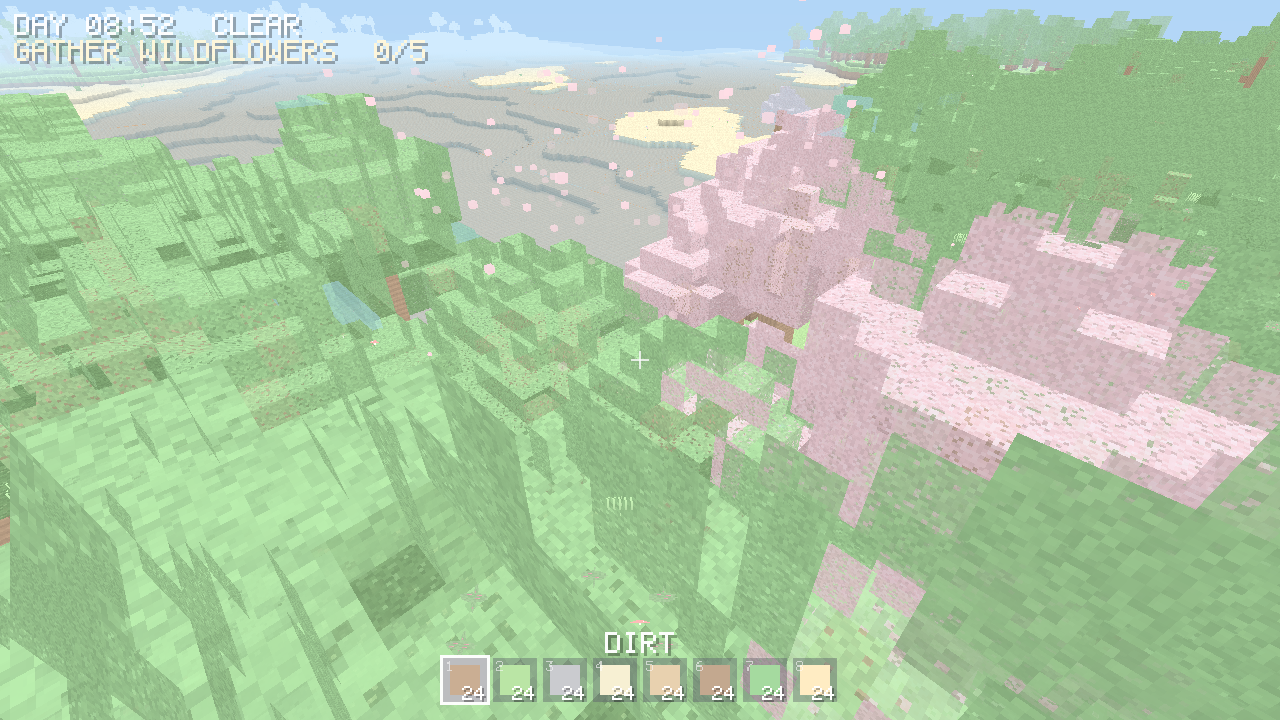
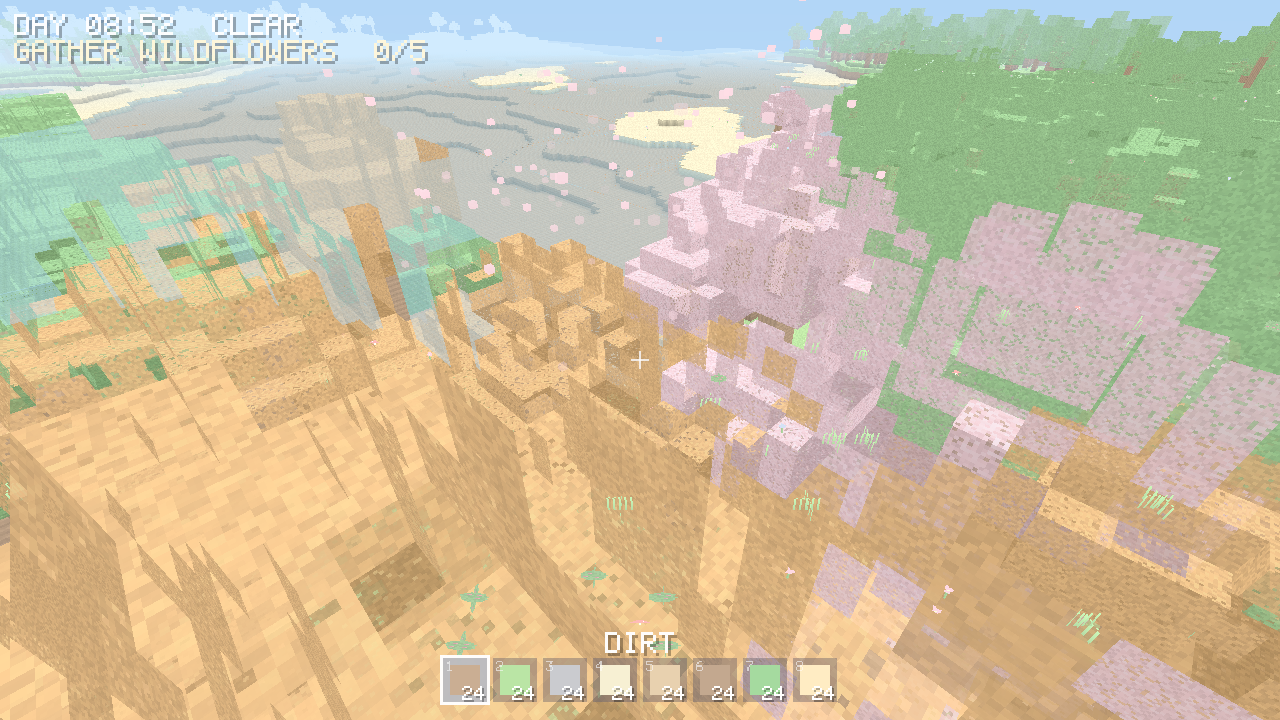
Stage 31: autumn groves
- New autumn_leaves block (warm amber). A large-scale noise paints patches of
  the woods in autumn colours, so forests blend green and amber canopies for
  seasonal variety. Texture reuses the dappled leaf pattern.
- Screenshot tool frames an autumn grove.

diff --git a/crates/game/src/bin/screenshot.rs b/crates/game/src/bin/screenshot.rs
@@ -206,6 +206,20 @@ fn main() {
         println!("  (no cherry grove near spawn this run)");
     }
 
+    // If an autumn grove is near, frame its warm amber canopy.
+    if let Some(amber) = nearest_block(&game, ground, pixelcraft_core::block::blocks::AUTUMN_LEAVES) {
+        let center = Vec3::new(amber.x as f32, amber.y as f32 - 3.0, amber.z as f32);
+        let eye = center + Vec3::new(14.0, 13.0, 14.0);
+        let forward = (center - eye).normalize();
+        let env = Environment { time_of_day: 0.42, day_length: 600.0 };
+        let camera = Camera::new(eye, forward, aspect);
+        let path = format!("{out_dir}/18_autumn.png");
+        renderer.capture(&camera, &env, &path);
+        println!("  wrote {path} (autumn at {amber:?})");
+    } else {
+        println!("  (no autumn grove near spawn this run)");
+    }
+
     // A critter close-up: frame the nearest ground critter to the cat.
     if let Some(critter) = game
         .entities

diff --git a/crates/core/src/block.rs b/crates/core/src/block.rs
@@ -142,6 +142,7 @@ pub mod blocks {
     pub const COAL_ORE: BlockId = BlockId(22);
     pub const CHERRY_LEAVES: BlockId = BlockId(23);
     pub const PINE_LEAVES: BlockId = BlockId(24);
+    pub const AUTUMN_LEAVES: BlockId = BlockId(25);
 }
 
 /// Registry mapping [`BlockId`] to [`Block`] definitions.
@@ -331,6 +332,15 @@ impl BlockRegistry {
             render: TransparentCube,
             solid: true,
             color: Color::rgba(70, 124, 86, 238),
+            light_emission: 0,
+            harvestable: true,
+        });
+        // 25: autumn leaves — warm amber canopy
+        r.register(Block {
+            name: "autumn_leaves",
+            render: TransparentCube,
+            solid: true,
+            color: Color::rgba(224, 142, 66, 236),
             light_emission: 0,
             harvestable: true,
         });

diff --git a/crates/worldgen/src/generator.rs b/crates/worldgen/src/generator.rs
@@ -389,7 +389,19 @@ impl WorldGenerator {
             Biome::CherryGrove => {
                 self.place_blob_tree(storage, origin, wx, wz, surface, blocks::CHERRY_LEAVES, rng)
             }
-            _ => self.place_blob_tree(storage, origin, wx, wz, surface, blocks::LEAVES, rng),
+            _ => {
+                // Large-scale noise paints warm autumn patches across the woods.
+                let autumn = self
+                    .temperature_noise
+                    .noise2(wx as f32 * 0.004, wz as f32 * 0.004)
+                    > 0.28;
+                let leaf = if autumn {
+                    blocks::AUTUMN_LEAVES
+                } else {
+                    blocks::LEAVES
+                };
+                self.place_blob_tree(storage, origin, wx, wz, surface, leaf, rng)
+            }
         }
     }
 

diff --git a/crates/game/src/render/textures.rs b/crates/game/src/render/textures.rs
@@ -93,7 +93,7 @@ fn generate(name: &str, base: Color, idx: u64) -> Canvas {
                 }
             }
         }
-        "leaves" | "cherry_leaves" | "pine_leaves" => {
+        "leaves" | "cherry_leaves" | "pine_leaves" | "autumn_leaves" => {
             for y in 0..TILE {
                 for x in 0..TILE {
                     let n = noise(x, y);
